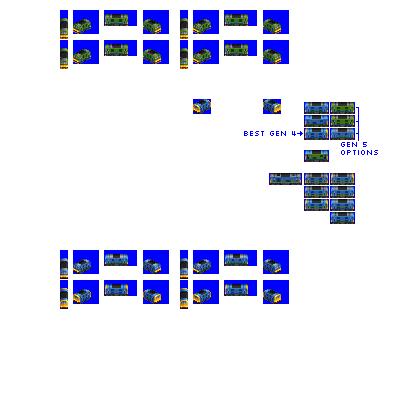
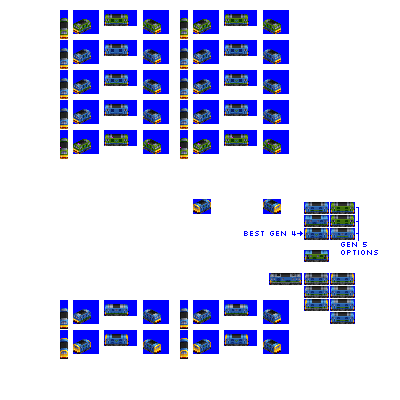
Change: additional liveries for Tornado

diff --git a/src/vehicles/pony/tornado.py b/src/vehicles/pony/tornado.py
@@ -15,7 +15,7 @@ def main(roster_id, **kwargs):
         gen=5,
         intro_year_offset=6,  # introduce later than gen epoch by design
         # note that livery names are metadata only and can repeat for different spriterows
-        additional_liveries=[],
+        additional_liveries=["BANGER_BLUE", "DB_SCHENKER", "INDUSTRIAL_YELLOW"],
         sprites_complete=True,
         sprites_additional_liveries_potential=True,  # banger blue, industrial?
     )

diff --git a/bin/swap_company_colours.py b/bin/swap_company_colours.py
@@ -8,7 +8,7 @@ from polar_fox import graphics_units
 
 # requires a tmp dir to exist, which should be gitignored
 # set the filename
-input_filenames = ["evolution", "hector", "nimbus", "resilient", "screamer"]
+input_filenames = ["tornado"]
 
 for input_filename in input_filenames:
     source_image = Image.open(os.path.join("tmp", input_filename + ".png"))
